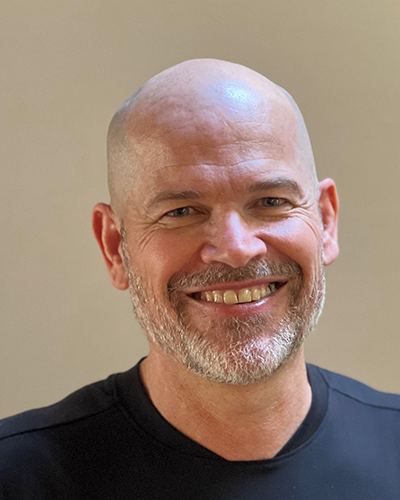
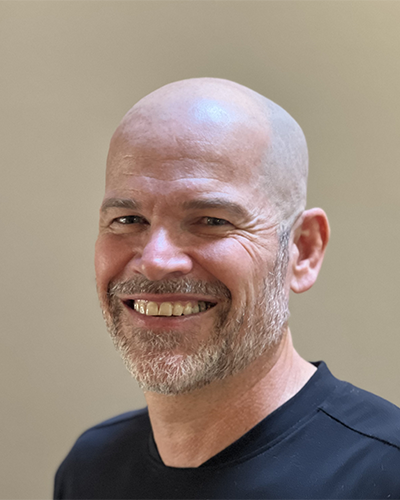
updated images and tiles

diff --git a/_includes/header.html b/_includes/header.html
@@ -1,7 +1,8 @@
 <header id="masthead">
   <div class="inner-wrap">
     <a href="{{ site.url }}" class="site-title">
-      <img src="{{'/images/uwa_neuroecology_group.png' | prepend: site.url }}" height=10%></img>
+      <!-- The following forces the logo to be smaller and to the left. for some reason height doesn't work -->
+      <img src="{{site.url}}/images/uwa_neuroecology_group.png" align='left' width="404" hspace="0" vspace="0" >
     <span>  </span>
     </a>
     <nav role="navigation" class="menu top-menu">

diff --git a/_posts/staff/2023-03-13-Jan_Hemmi.md b/_posts/staff/2023-03-13-Jan_Hemmi.md
@@ -6,15 +6,20 @@ tags: [staff]
 excerpt: "Group leader"
 image:
   feature: 
-  teaser: people/Jan_Hemmi_5_4.png
-  thumb: people/Jan_Hemmi_5_4.png
+  teaser: people/jan_hemmi_5x4_500.png
+  thumb: people/jan_hemmi_5x4_500.png
 ---
 <!-- works   <img class="philprofile" src= "{{'/images/5x8_Julia.png' | prepend: site.url }}" align='right' width="350" hspace="20" vspace="10"> -->
 <!-- works   <img src='https://janhemmi.github.io/hemmi_lab/images/5x8_Jon.png' align='right' width="350" hspace="20" vspace="10"/> -->
 <!-- works   <img class="philprofile" src= "{{'/images/people/Jan_Hemmi_5_4.png' | prepend: site.baseurl }}"  align='right' width="350" hspace="20" vspace="10"> -->
 <!-- does not work <img class="philprofile" src= "{{'/images/Jan_Hemmi_5_4.png'}}"  align='right' width="350" hspace="20" vspace="10"> -->
 <!-- does not work <img class="philprofile" src= '/../master/images/5x8_Jon.png'  align='right' width="350" hspace="20" vspace="10"> -->
-<img class="philprofile" src= "{{ site.url }}/images/people/Jan_Hemmi_5_4.png"  align='right' width="350" hspace="20" vspace="10">
+<!-- <img class="philprofile" src= "{{ site.url }}/images/people/jan_hemmi_5_4.png"  align='right' width="350" hspace="20" vspace="10"> -->
+<!-- <img class="philprofile" src= "{{ site.url }}/images/people/jan_hemmi_5_4_1.png"  align='right' width="350" hspace="20" vspace="10"> -->
+<!-- <img class="philprofile" src= "{{ site.url }}/images/people/jan_hemmi_5x4_500_1.png"  align='right' width="350" hspace="20" vspace="10"> -->
+<!-- <img class="philprofile" src= "{{ site.url }}/images/people/jan_hemmi_5x4_500_2.png"  align='right' width="350" hspace="20" vspace="10"> -->
+<img class="philprofile" src= "{{ site.url }}/images/people/jan_hemmi_5x4_500.png"  align='right' width="350" hspace="20" vspace="10">
+<!-- <img class="philprofile" src= "{{ site.url }}/images/people/jan_hemmi_5x4_500_4.png"  align='right' width="350" hspace="20" vspace="10"> -->
 
 
 ## Research

diff --git a/_posts/research/2023-03-23-hyperiid_vision.md b/_posts/research/2023-03-23-hyperiid_vision.md
@@ -1,0 +1,12 @@
+---
+layout: article
+title: "Vision in deep sea amphipods"
+categories: research
+tags: [research]
+image:
+  feature: 
+  teaser: projects/Platysceloidea_USNM1525325-18.png
+  thumb: projects/Platysceloidea_USNM1525325-18.png
+---
+<img class="philprofile" src= "{{site.baseurl}}/images/projects/Platysceloidea_USNM1525325-18.png"  align='right' width="350" hspace="20" vspace="10">
+Observing deep sea animals is anincredible challenge. We are reconstructing the visual capabilities of deep sea crustaceans in order to be able to predict their visual capabilities. Due to the tight relationship between visual information and behaviour, this will help us predict what is important to these animals and what drives the evolution of their eyes. 
